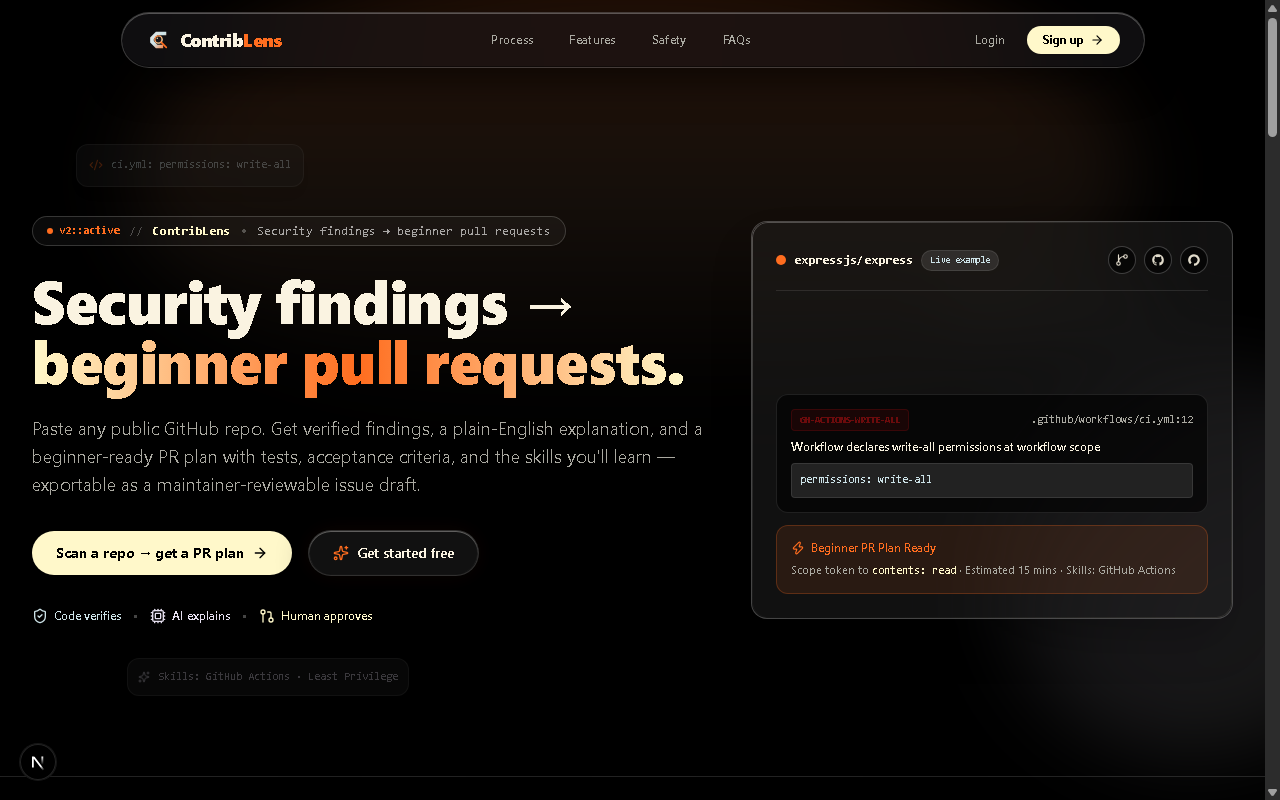
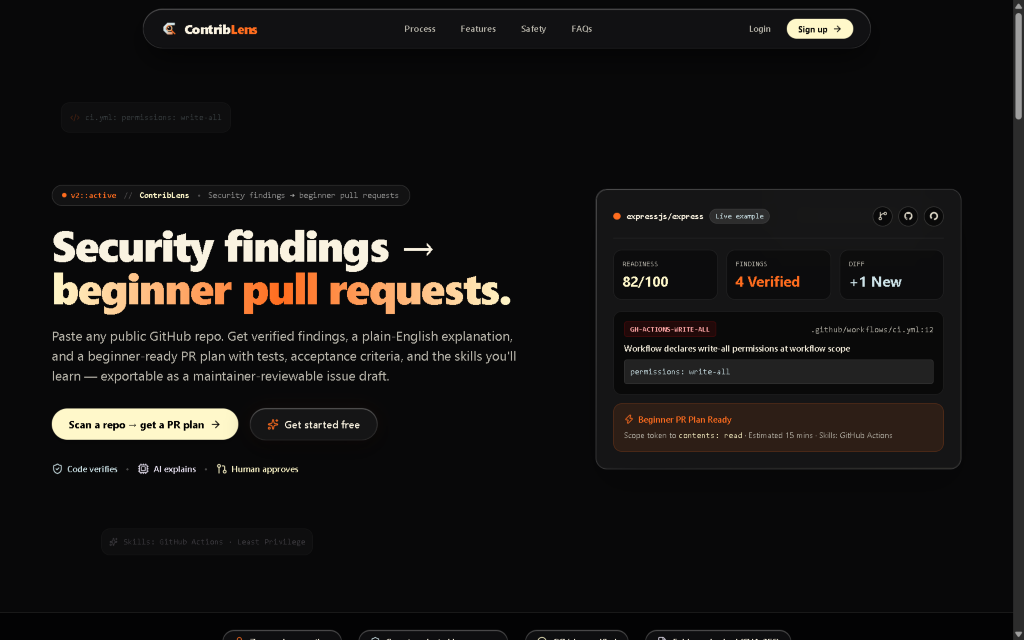
docs: refresh README with current live-app screenshots and upgraded animated diagrams

diff --git a/README.md b/README.md
@@ -35,10 +35,11 @@
 
 <p align="center">
   <a href="#-quick-start-zero-config">Quick Start</a> •
+  <a href="#-visual-walkthrough">Visual Walkthrough</a> •
   <a href="#-why-contriblens">Why ContribLens</a> •
   <a href="#-core-capabilities">Core Capabilities</a> •
-  <a href="#-system-architecture">Architecture</a> •
   <a href="#-pipeline-flowchart">Pipeline Flowchart</a> •
+  <a href="#-system-architecture">Architecture</a> •
   <a href="#-security--safety-contract">Security & Safety</a> •
   <a href="https://hacktoberfest-contri-blens.vercel.app/">Live Webapp ↗</a>
 </p>
@@ -49,9 +50,20 @@
 
 ## ⚡ Visual Walkthrough
 
+Experience the complete ContribLens flow: from entering a repository URL, through the bounded deterministic scanner and grounding engine, to a beginner-ready pull request plan.
+
 <div align="center">
-  <p><strong>Landing Hero & Value Proposition</strong></p>
-  <img src="docs/assets/01-landing-hero.png" width="900" alt="ContribLens Landing Page" style="border-radius: 8px; border: 1px solid rgba(255,255,255,0.1);" />
+  <p><strong>0. Interactive Scan Flow in Action</strong></p>
+  <img src="docs/assets/scan-flow-demo.gif" width="940" alt="ContribLens Scan Flow Demo" style="border-radius: 8px; border: 1px solid rgba(255,255,255,0.12); box-shadow: 0 20px 50px -15px rgba(0, 0, 0, 0.7);" />
+  <p><em>Real-time audit: repository input → 6-stage pipeline → Contribution Readiness scoring → beginner PR plan details.</em></p>
+</div>
+
+<br />
+
+<div align="center">
+  <p><strong>1. Landing Hero & Liquid Glass Material System</strong></p>
+  <img src="docs/assets/01-landing-hero.png" width="940" alt="ContribLens Landing Page" style="border-radius: 8px; border: 1px solid rgba(255,255,255,0.12);" />
+  <p><em>Smoky ambient background with liquid glass navigation capsule, trust indicators, and core philosophy.</em></p>
 </div>
 
 <br />
@@ -60,18 +72,26 @@
   <table>
     <tr>
       <td width="50%" align="center">
-        <strong>1. Bounded Repository Scanner</strong><br /><br />
-        <img src="docs/assets/02-scan-repository.png" width="100%" alt="Repository Security Scanner" />
+        <strong>2. Bounded Repository Scanner</strong><br /><br />
+        <img src="docs/assets/02-scan-repository.png" width="100%" alt="Repository Security Scanner" style="border-radius: 6px; border: 1px solid rgba(255,255,255,0.1);" /><br />
+        <sub>Strict read-only ingestion bounded to 60 files / 15 MB payload with scope choices.</sub>
       </td>
       <td width="50%" align="center">
-        <strong>2. Contribution Readiness Scoring</strong><br /><br />
-        <img src="docs/assets/03-live-findings-readiness.png" width="100%" alt="Readiness Score & Findings" />
+        <strong>3. Contribution Readiness Scoring</strong><br /><br />
+        <img src="docs/assets/03-live-findings-readiness.png" width="100%" alt="Readiness Score & Findings" style="border-radius: 6px; border: 1px solid rgba(255,255,255,0.1);" /><br />
+        <sub>Multi-factor scoring (0–100) separating urgency from difficulty, with scan diff tracking.</sub>
       </td>
     </tr>
     <tr>
-      <td colspan="2" align="center">
-        <strong>3. Grounded Explanation & Disclosure-Guarded Route</strong><br /><br />
-        <img src="docs/assets/04-grounded-pipeline-card.png" width="85%" alt="Grounded Pipeline Card" />
+      <td width="50%" align="center">
+        <strong>4. Grounded Explanation & Beginner PR Plan</strong><br /><br />
+        <img src="docs/assets/04-grounded-pipeline-card.png" width="100%" alt="Grounded Pipeline Card" style="border-radius: 6px; border: 1px solid rgba(255,255,255,0.1);" /><br />
+        <sub>3-part explanation (What, Why, Fix), verified SHA-256 evidence, and curated learning skills.</sub>
+      </td>
+      <td width="50%" align="center">
+        <strong>5. Public Platform Activity & Metrics</strong><br /><br />
+        <img src="docs/assets/05-dashboard.png" width="100%" alt="Public Platform Stats" style="border-radius: 6px; border: 1px solid rgba(255,255,255,0.1);" /><br />
+        <sub>Aggregate community statistics at <code>/stats</code> without exposing user-private details.</sub>
       </td>
     </tr>
   </table>
@@ -136,51 +156,67 @@ An agentic execution engine built with a strict **7-tool validated registry**:
 
 ## 🔄 Pipeline Flowchart
 
-The diagram below illustrates the end-to-end data pipeline from public repository URL to verified beginner pull request:
+The animated, styled diagram below illustrates the end-to-end data pipeline from public repository URL to verified beginner pull request:
 
 ```mermaid
 flowchart TD
-    %% Base Styling & Flow
-    Start([User Inputs Public GitHub Repository]) --> Ingestion[Bounded Ingestion Engine<br/>Max 60 Files · 15 MB · AST Only]
-    
-    subgraph Scanner[" 1. Authoritative Deterministic Scanner "]
-        Ingestion --> AST[Static AST Parser]
-        AST --> R1[GitHub Actions Least-Privilege]
-        AST --> R2[Manifest Dependencies]
-        AST --> R3[In-Memory Secret Detection]
-        AST --> R4[Repository Health & Hygiene]
-        R2 --> OSV[OSV.dev Vulnerability API<br/>Keyless CVE Cross-Check]
+    %% ContribLens Liquid Glass & Smoky Dark Theme Palette
+    classDef startEnd fill:#FF6D1F,stroke:#FFF8CA,stroke-width:2px,color:#000000,font-weight:bold;
+    classDef scannerStage fill:#16151A,stroke:#FF6D1F,stroke-width:1.5px,color:#FAF3E1;
+    classDef groundingStage fill:#1A1921,stroke:#CDE3E8,stroke-width:1.5px,color:#FAF3E1;
+    classDef agentStage fill:#1E1714,stroke:#FF6D1F,stroke-width:1.5px,color:#FAF3E1;
+    classDef guardBlocked fill:#381214,stroke:#E53E3E,stroke-width:2px,color:#FFC5C5;
+    classDef guardPassed fill:#0D2818,stroke:#38A169,stroke-width:2px,color:#D1FAE5;
+    classDef humanGate fill:#2D1F0E,stroke:#FFF8CA,stroke-width:2px,color:#FFF8CA,font-weight:bold;
+    classDef exportDeliver fill:#122019,stroke:#48BB78,stroke-width:2px,color:#FFFFFF,font-weight:bold;
+    classDef default fill:#141318,stroke:#2D2B35,stroke-width:1.5px,color:#FAF3E1;
+
+    Start([User Inputs Public GitHub Repository URL]):::startEnd --> Ingest[Bounded Ingestion Engine<br/>Max 60 Files · 15 MB · AST Only]:::scannerStage
+
+    subgraph S1[" 1. Authoritative Deterministic Scanner "]
+        Ingest --> AST[Static AST Parser]:::scannerStage
+        AST --> R1[GitHub Actions Least-Privilege Rules]:::scannerStage
+        AST --> R2[Dependency Manifest Parser]:::scannerStage
+        AST --> R3[In-Memory Secret Detection Engine]:::scannerStage
+        AST --> R4[Repository Health & Community Standards]:::scannerStage
+        R2 --> OSV[OSV.dev Vulnerability Feed<br/>Keyless CVE Cross-Check]:::scannerStage
     end
 
-    subgraph Grounding[" 2. Evidence Grounding & Cryptography "]
-        R1 & R3 & R4 & OSV --> Evidence[Evidence Chain Generator]
-        Evidence --> Redactor[In-Memory Secret Redaction<br/>Pre-Storage & Pre-AI]
-        Redactor --> Hash[SHA-256 Cryptographic Checksum]
+    subgraph S2[" 2. Evidence Grounding & Cryptography "]
+        R1 & R3 & R4 & OSV --> Chain[Evidence Chain Assembler]:::groundingStage
+        Chain --> Redact[In-Memory Secret Redaction<br/>Pre-Storage · Pre-Logs · Pre-AI]:::groundingStage
+        Redact --> Hash[Cryptographic SHA-256 Evidence Hash]:::groundingStage
     end
 
-    subgraph Orchestrator[" 3. Agent Planner & 7-Tool Registry "]
-        Hash --> Planner[Agent Orchestrator Loop<br/>Monotonic SSE Event Stream]
-        Planner --> TRegistry{7-Tool Allowlist}
-        TRegistry --> T1[github_fetch_tree]
-        TRegistry --> T2[fetch_file]
-        TRegistry --> T3[rule_scan]
-        TRegistry --> T4[osv_lookup]
-        TRegistry --> T5[explain_finding]
-        TRegistry --> T6[draft_issue]
-        TRegistry --> T7[patch_preview]
+    subgraph S3[" 3. Agent Planner & 7-Tool Registry "]
+        Hash --> Loop[Agent Orchestrator Loop<br/>Monotonic SSE Event Stream]:::agentStage
+        Loop --> Registry{7-Tool Allowlist}:::agentStage
+        Registry --> T1[github_fetch_tree]:::agentStage
+        Registry --> T2[fetch_file]:::agentStage
+        Registry --> T3[rule_scan]:::agentStage
+        Registry --> T4[osv_lookup]:::agentStage
+        Registry --> T5[explain_finding]:::agentStage
+        Registry --> T6[draft_issue]:::agentStage
+        Registry --> T7[patch_preview]:::agentStage
     end
 
-    subgraph Safety[" 4. Safety Guard & Disclosure Barrier "]
-        TRegistry --> Guard{Disclosure Guard<br/>Secret or Critical?}
-        Guard -- Yes --> Block[403 DISCLOSURE_BLOCKED<br/>Private Disclosure Guide Only]
-        Guard -- No --> AIExp[Grounded 3-Part Explanation<br/>Gemma 4 · Gemini 2.5 · Deterministic]
+    subgraph S4[" 4. Safety Guard & Grounded Inference "]
+        Registry --> Guard{Disclosure Guard<br/>Secret or Critical?}:::guardBlocked
+        Guard -- Yes --> Block[403 DISCLOSURE_BLOCKED<br/>Private Advisory Guidelines Only]:::guardBlocked
+        Guard -- No --> AI[Multi-Tier AI Inference<br/>Gemma 4 31B → Gemini 2.5 → Deterministic]:::guardPassed
     end
 
-    subgraph Output[" 5. Contributor Delivery "]
-        AIExp --> Plan[Beginner Contribution Route<br/>Readiness Score 0-100 · Skills Gap]
-        Plan --> HumanGate{{Human Approval Gate<br/>Maintainer & Contributor Review}}
-        HumanGate --> Export[GitHub Markdown Issue Draft &<br/>Local Git Contribution Pack]
+    subgraph S5[" 5. Contributor Delivery & Human Gate "]
+        AI --> Route[Beginner Contribution Route<br/>Readiness Score 0-100 · Skills Gap]:::exportDeliver
+        Route --> Gate{{Human Approval Gate<br/>Maintainer & Contributor Review}}:::humanGate
+        Gate --> Export[GitHub Markdown Issue Draft &<br/>Local Git Contribution Pack]:::exportDeliver
     end
+
+    style S1 fill:#0E0D12,stroke:#FF6D1F,stroke-width:1px,color:#FFF8CA
+    style S2 fill:#0F1015,stroke:#CDE3E8,stroke-width:1px,color:#CDE3E8
+    style S3 fill:#141012,stroke:#FF6D1F,stroke-width:1px,color:#FAF3E1
+    style S4 fill:#170E10,stroke:#E53E3E,stroke-width:1px,color:#FFC5C5
+    style S5 fill:#0B1410,stroke:#38A169,stroke-width:1px,color:#D1FAE5
 ```
 
 ---
@@ -191,37 +227,57 @@ ContribLens uses a clean 4-tier modular architecture designed for failure isolat
 
 ```mermaid
 graph TB
-    subgraph UI[" Tier 1: Presentation & Liquid Glass UI "]
-        A1[Next.js 15 App Router / React 19]
-        A2[Tailwind CSS 3.4 · Liquid Glass Tokens]
-        A3[Live Action Log Terminal · Lucide Icons]
-        A4[Optimistic UI Updates & Safe Rollback]
+    %% ContribLens 4-Tier System Architecture Palette
+    classDef tier1 fill:#17151D,stroke:#FF6D1F,stroke-width:1.5px,color:#FAF3E1;
+    classDef tier2 fill:#141720,stroke:#CDE3E8,stroke-width:1.5px,color:#FAF3E1;
+    classDef tier3 fill:#1E1A16,stroke:#FFF8CA,stroke-width:1.5px,color:#FAF3E1;
+    classDef tier4 fill:#101B14,stroke:#38A169,stroke-width:1.5px,color:#FAF3E1;
+    classDef database fill:#0D1711,stroke:#48BB78,stroke-width:2px,color:#D1FAE5;
+    classDef barrier fill:#2A1113,stroke:#E53E3E,stroke-width:2px,color:#FFC5C5;
+    classDef default fill:#141318,stroke:#2D2B35,stroke-width:1.5px,color:#FAF3E1;
+
+    subgraph T1[" Tier 1: Presentation & Liquid Glass UI "]
+        U1["Next.js 15 App Router & React 19"]:::tier1
+        U2["Liquid Glass Design System · Tailwind 3.4"]:::tier1
+        U3["Live Action Log Terminal & Monotonic Event Viewer"]:::tier1
+        U4["Optimistic UI Engine & Safe Rollback Store"]:::tier1
     end
 
-    subgraph API[" Tier 2: API Gateway & Orchestration "]
-        B1[API Router /api/scans /api/findings /api/agent]
-        B2[SSE Monotonic Event Stream Engine]
-        B3[Zod Request / Response Validation]
-        B4[In-Memory Rate Limiter & Debounce Engine]
+    subgraph T2[" Tier 2: API Gateway & Event Orchestration "]
+        A1["API Gateway Router · /api/scans · /api/findings · /api/agent"]:::tier2
+        A2["Server-Sent Events SSE Monotonic Stream Sequencer"]:::tier2
+        A3["Zod Runtime Schema Validation & Contract Guards"]:::tier2
+        A4["In-Memory Rate Limiter & Debounce Engine"]:::tier2
     end
 
-    subgraph Core[" Tier 3: Scanner & Intelligence Core "]
-        C1[Deterministic Rule Engine actions/manifests/health]
-        C2[OSV.dev Keyless Advisory Client]
-        C3["AI Adapter: Gemma 4 31B → Gemini 2.5 Flash"]
-        C4[Offline Deterministic Explanation Engine]
+    subgraph T3[" Tier 3: Scanner & Intelligence Core "]
+        C1["Authoritative Deterministic AST Engine · actions / manifests / health"]:::tier3
+        C2["OSV.dev Advisory Client · Keyless CVE / GHSA Feed"]:::tier3
+        C3["AI Adapter: Gemma 4 31B → Gemini 2.5 Flash Fallback"]:::tier3
+        C4["Keyless Offline Deterministic Explanation Engine"]:::tier3
     end
 
-    subgraph Security[" Tier 4: Storage, Privacy & Safety Contracts "]
-        D1[(Supabase PostgreSQL with RLS)]
-        D2[(Local-JSON DB Fallback .data/)]
-        D3[In-Memory Secret Sanitizer]
-        D4[Disclosure Guard Authoritative Enforcement]
+    subgraph T4[" Tier 4: Storage, Privacy & Safety Contracts "]
+        D1[("Supabase PostgreSQL with Row Level Security RLS")]:::database
+        D2[("Local-JSON Database Fallback · .data/db.json")]:::database
+        D3["In-Memory Secret Redaction Engine · Pre-Storage & Pre-AI"]:::barrier
+        D4{"Disclosure Guard · 403 DISCLOSURE_BLOCKED Enforcement"}:::barrier
     end
 
-    UI --> API
-    API --> Core
-    Core --> Security
+    %% Data Flow Connections
+    U1 & U2 -->|"Client Fetch / JSON"| A1
+    U3 <-->|"SSE Monotonic Stream (?sinceSeq)"| A2
+    A1 -->|"AST Ingestion & Bounds"| C1
+    A1 -->|"7-Tool Allowlist Execution"| C3
+    C1 -->|"CVE Advisory Cross-Check"| C2
+    C1 & C3 -->|"Sanitize Credentials"| D3
+    D3 -->|"Hashed Evidence & Safe Payloads"| D1 & D2
+    D4 -.->|"Blocks Public Export of Secrets / Critical"| A1
+
+    style T1 fill:#0F0E13,stroke:#FF6D1F,stroke-width:1px,color:#FF6D1F
+    style T2 fill:#0D1117,stroke:#CDE3E8,stroke-width:1px,color:#CDE3E8
+    style T3 fill:#14100D,stroke:#FFF8CA,stroke-width:1px,color:#FFF8CA
+    style T4 fill:#0B1410,stroke:#38A169,stroke-width:1px,color:#38A169
 ```
 
 ---
